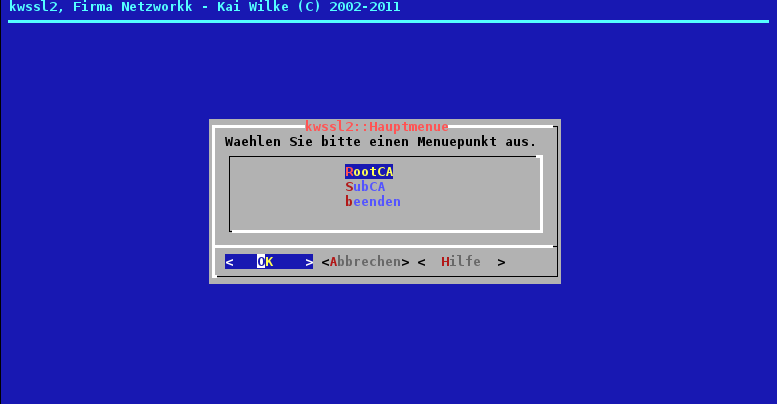
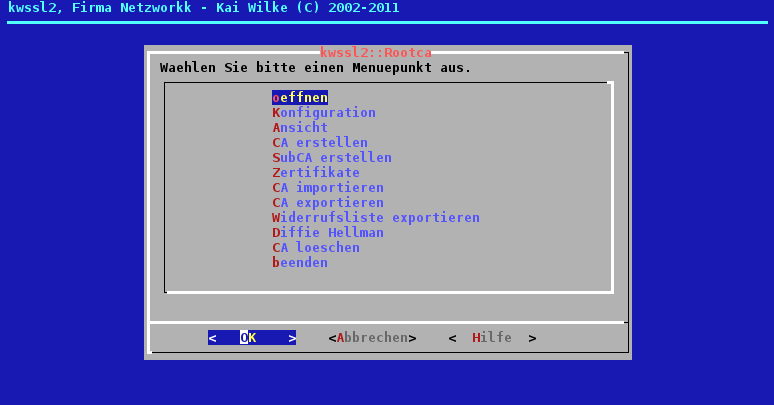
Update des kwssl2 Screenshot und Anpassung der Pakte- und HilfeDateien zu openssl.

diff --git a/kwtools/doc/html/doku/kwtools/utils/kwssl2.html b/kwtools/doc/html/doku/kwtools/utils/kwssl2.html
@@ -1,13 +1,13 @@
 <!DOCTYPE HTML PUBLIC "-//W3C//DTD HTML 4.01 Transitional//EN">
 <HTML>
 <HEAD><TITLE>Berlios:Projekt:netzworkk:Doku:kwtools</TITLE>
-        <meta name="generator" content="quanta">
+        <meta name="generator" content="quanta" >
         <meta name="keywords" lang="en" content="Netzworkk, Netzwerk, kwtools, openssl, ssl, kwssl2, linux">
         <meta name="description" lang="en" content="">
-        <meta name="author" content="Kai Wilke / netzworkk.de">
+        <meta name="author" content="Kai Wilke" >
         <meta name="publisher" content="Kai Wilke / netzworkk.de">
         <meta name="copyright" content="Kai Wilke / netzworkk.de">
-        <meta name="date" content="2011-09-04">
+        <meta name="date" content="2011-12-26" >
         <meta http-equiv="content-type" content="text/html;charset=iso-8859-1">
         <meta name="content-language" content="de">
 	<meta name="Robots" content="index,follow">
@@ -34,9 +34,11 @@
                 <tr>
                         <td></td>
                         <td vAlign=top><h2><a name=kwssl2>kwssl2</a></h2>
-                                <p>kwssl2 erzeugt Certifications Authorities (CA), private Schl&uuml;ssel, 
-				etc.. Weitere Dokumentation folgt noch bzw. diese wird erweitert.</p>
-				<p><b><font color="red">Notiz: </font></b> Dieses script ist noch Alpha!</p></td>
+                                <p>kwssl2 ist ein simples Script, geschrieben in zsh/dialog, zum verwalten von einer kleinen CA 
+                                (Certifications Authority). kwssl2 ist ein Frontend f&uuml;r das Programm openssl. Als
+                                Vorlage diente das Programm
+                                <a href="http://tinyca.sm-zone.net" target="_blank"><b>TinyCA2</b></a>.</p>
+                                <p><b><font color="red">Notiz: </font></b> Dieses Script ist noch Alpha!</p></td>
                         <td></td>
                 </tr>
                 <tr>
@@ -46,24 +48,12 @@
                 </tr>
                 <tr>
                         <td></td>
-                        <td vAlign=top><p><img src="../../../images/trans.gif" width="0" height="1"><a href="kwssl2.html#root_ca">1 RootCA</a></p></td>
+                        <td vAlign=top><p><img src="../../../images/trans.gif" width="0" height="1"><a href="kwssl2.html#features">1 F&auml;higkeiten</a></p></td>
                         <td></td>
                 </tr>
                 <tr>
                         <td></td>
-                        <td vAlign=top><p><img src="../../../images/trans.gif" width="0" height="1"><a 
-			href="kwssl.html#sub_ca">2 SubCa</a></p></td>
-                        <td></td>
-                </tr>
-                <tr>
-                        <td></td>
-                        <td vAlign=top><br><hr><br></td>
-                        <td></td>
-                </tr>
-                <tr>
-                        <td></td>
-                        <td vAlign=top><h3><a name=root_ca></a>1 RootCA</a></h3>
-				<p>Hier legt/verwaltet man eine Root Certrifikate Authorit&auml;t (CA) an.</p></td>
+                        <td vAlign=top><p><img src="../../../images/trans.gif" width="0" height="1"><a href="kwssl2.html#links">2 Links</a></p></td>
                         <td></td>
                 </tr>
                 <tr>
@@ -73,11 +63,51 @@
                 </tr>
                 <tr>
                         <td></td>
-                        <td vAlign=top><h3><a name=sub_ca></a>2 SubCA</a></h3>
-				<p>Hier legt/verwaltet man eine/mehrere Certrifikate Authoritties (
-				(CAs) und deren Zertifikate.</p></td>
+                        <td vAlign=top><h3><a name="features"></a>1 F&auml;higkeiten</a></h3>
+                        <p>Es werden folgende F&auml;higkeiten von <b>kwssl2</b> unterst&uuml;tzt:
+                        <ul>
+                        <li>unendliche Anzahl an CAs m&ouml;glich</li>
+                        <li>Konfiguration f&uuml;r die Erstellung von CA, Server Zertifikate,
+                        Benutzer Zertifikate und Widerrufslisten</li>
+								<li>Erstellung und Verwaltung von SubCAs</li>
+								<li>Erstellung und Widerrufung von x509 und S/MIME (<font color="red">S/MIME geht noch nicht</font>)
+								Zertifikaten</li>
+								<li># Importierung von CAs (<font color="red">geht noch nicht</font>)</li>
+								<li>Erstellung von Diffie Hellman Dateien</li>
+								<li>RSA und DSA Schl&uuml;ssel k&ouml;nnen erstellt werden</li>
+								<li>CA (Certificates Authority)</li>
+									<ul>
+									<li>CAs k&ouml;nnen nach PEM, DER und TXT exportiert werden</li>
+									</ul>
+								<li>Server Zertifikate</li>
+									<ul>
+									<li>Zertifikate k&ouml;nnen nach PEM, DER, TXT und PKCS#12 eportiert werden</li>
+									<li>Zertifikate k&ouml;nnen zum Beispiel f&uuml;r Apache, Postfix, OpenLDAP, 
+									Cyrus, FreeS/WAN, OpenVPN, OpenSWAN, FreeRadius, ..., benutzt werden</li>
+									</ul>
+								<li>Benutzer Zertifikate</li>
+									<ul>
+									<li>Zertifikate k&ouml;nnen nach PEM, DER, TXT und PKCS#12 eportiert werden</li>
+									<li>Zertifikate k&ouml;nnen zum Beispiel f&uuml;r Netscape, Konqueror, Opera, 
+									Internet Explorer, Outlook (Express) und FreeS/WAN benutzt werden</li>
+									</ul>
+								<li>Widerrufsliste (Certificates Revocation List)</li>
+									<ul>
+									<li>CRLs k&ouml;nnen nach PEM, DER und TXT exportiert werden</li>
+									</ul>
+								</ul></td>
                         <td></td>
                 </tr>
+                <tr>
+                        <td></td>
+                        <td vAlign=top><br><hr><br></td>
+                        <td></td>
+                </tr>
+                <tr>
+                        <td></td>
+                        <td vAlign=top><h3><a name="links"></a>2 Links</a></h3>
+                        [1] <a href="http://tinyca.sm-zone.net" target="_blank">TinCa2</a></td>
+                        <td></td>
                 <tr>
                         <td></td>
                         <td vAlign=top><br><hr><br><center><a href="../../../doku/kwtools/utils/kwpwsafe.html" target="Context"><img src="../../../images/arraw_l.gif" width="20" height="20" border="0"></a>

diff --git a/kwtools/doc/html/info/kwtools_screenshots/utils_kwssl2.html b/kwtools/doc/html/info/kwtools_screenshots/utils_kwssl2.html
@@ -1,13 +1,13 @@
 <!DOCTYPE HTML PUBLIC "-//W3C//DTD HTML 4.01 Transitional//EN">
 <html>
 <head><title>Berlios:Projekt:netzworkk:Scripts</title>
-        <meta name="generator" content="quanta">
+        <meta name="generator" content="Bluefish 2.2.0" >
         <meta name="keywords" lang="en" content="Linux, linux, Netzworkk, kwtools, Screenshots">
         <meta name="description" lang="en" content="">
-        <meta name="author" content="Kai Wilke / netzworkk.de">
+        <meta name="author" content="Kai Wilke" >
         <meta name="publisher" content="Kai Wilke / netzworkk.de">
         <meta name="copyright" content="Kai Wilke / netzworkk.de">
-        <meta name="date" content="2011-09-01">
+        <meta name="date" content="2011-12-25T17:54:14+0100" >
         <meta http-equiv="content-type" content="text/html;charset=iso-8859-1">
         <meta name="content-language" content="de">
 	<meta name="Robots" content="index,follow">
@@ -19,7 +19,7 @@
         <tbody>
                 <tr>
                         <td width="2%"  height=15></td>
-                        <td width="96%" valign="top"><h2>kwssl</h2></td>
+                        <td width="96%" valign="top"><h2>kwssl2</h2></td>
                         <td width="2%"></td>
                 </tr>
                 <tr>
@@ -34,22 +34,7 @@
                 </tr>
                 <tr>
                         <td></td>
-                        <td align="center"><br>Hauptmen&uuml;</td>
-                        <td></td>
-                </tr>
-                <tr>
-                        <td></td>
-                        <td><hr><br></td>
-                        <td></td>
-                </tr>
-                <tr>
-                        <td></td>
-                        <td align="center"><img src="../../images/kwtools_screenshots/utils_kwssl2_subca.png" alt="kwssl2 SubCA" width="775" height="405" align="top" border="0"></td>
-                        <td></td>
-                </tr>
-                <tr>
-                        <td></td>
-                        <td align="center"><br>SubCa</td>
+                        <td align="center"><br>Hauptmen&uuml;, nachdem &ouml;ffnen einer CA.</td>
                         <td></td>
                 </tr>
         </tbody>
